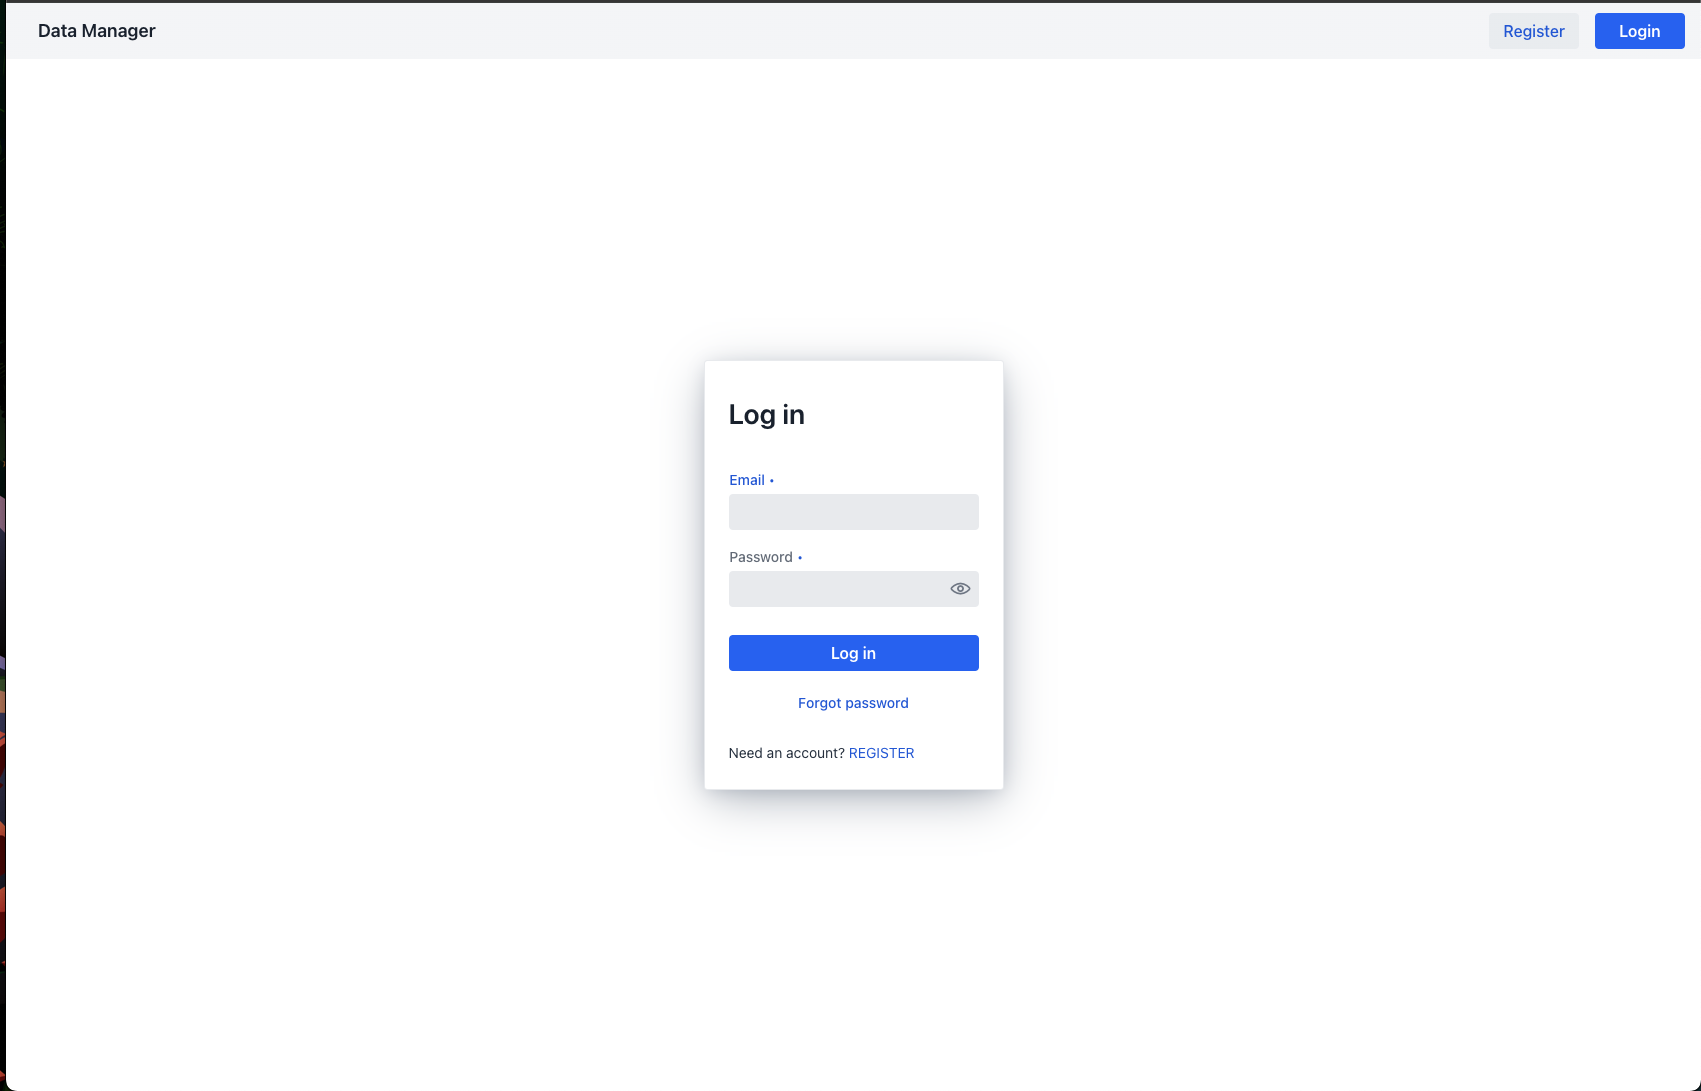
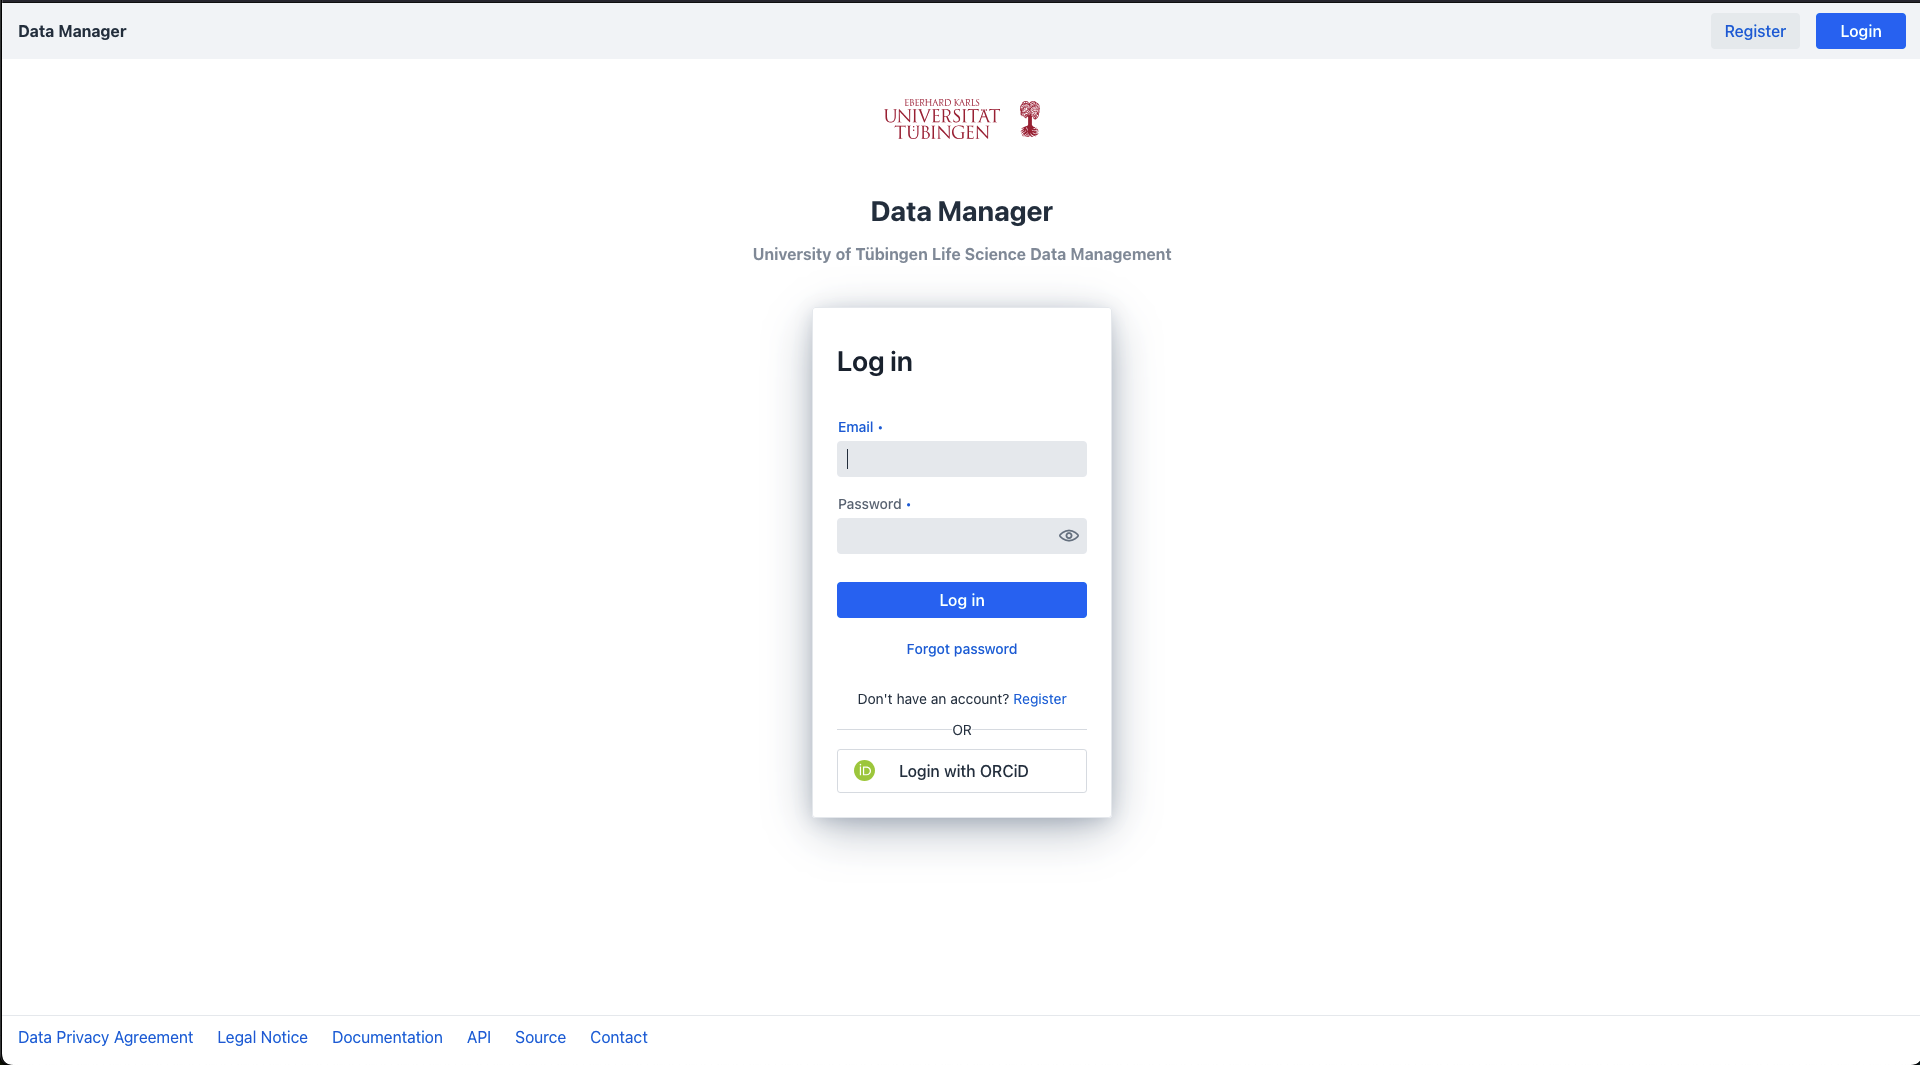
Provide Orcid Registration instructions and update screenshots for registration

diff --git a/docs/user/user_registration.md b/docs/user/user_registration.md
@@ -1,16 +1,52 @@
 # User Registration
 
 Before you can begin to manage your projects and access your data within the data-manager, 
-you need to create an account for the platform. For this you need to perform the following steps.
+you need to create an account for the platform. We currently support 2 modes of registration:
 
-1. [Register an account within the data manager](#register-account)
-2. [Validate the created account via the validation link you received in your email](#validate-the-registered-account)
-3. [Login into the data manager platform](#login-to-the-data-manager)
+1. [Register an account via orcid](#register-an-account-via-orcid)
+2. [Register an account via email](#register-an-account-via-email)
 
-## Register Account
+## Register an account via orcid
 
-From the login page you can navigate to the registration view via the "registration" button on the top right 
-or the registration link on the bottom of the login
+We recommend to register to the data manager via your existing [orcid](https://orcid.org) account.
+
+To do so press on the "login with ORCiD" registration card on the bottom of the login page. 
+
+![login_page_registration](images/user_registration/login_page.png)
+
+This will redirect you to the orcid login page 
+
+![orcid_login](images/user_registration/orcid/orcid_login.png)
+
+Login to your orcid account and grant the data manager application to access your publicly available orcid by pressing the "authorize access" button. 
+
+![orcid_registration_authorize_access.png](images/user_registration/orcid/orcid_registration_authorize_access.png).
+
+Should you not have an orcid account press the "register_now" link 
+within the orcid login and follow the outlined steps to register a new orcid account.
+
+If done correctly you will be redirected to the data manager application to finalize your account registration by providing us with additional user information.
+![orcid_registration_data_manager_registration.png](images/user_registration/orcid/orcid_registration_data_manager_registration.png)
+
+This additional information consists of
+
+1. Your full name consisting of your first name and surname
+2. A valid email address of choice which will be associated with your data manager account
+3. A unique username which identifies you within the data manager platform
+
+!!! info "Username"
+This username is visible to other users within the platform
+
+Press the register button to register an account within the data manager application and navigate to the login page.
+Finally, press on the "login with ORCiD" registration card on the bottom of the login page to login into the data manager application via your orcid credentials. 
+![registration page](images/user_registration/registration_page.png)
+
+### Create a new orcid
+
+## Register an account via email
+
+If you don't want to link your orcid with the data manager application, 
+you can also register an account with your email address by pressing the register link on the login page or via the "registration" button on the top right.
 
 ![login_page_registration](images/user_registration/login_page.png)
 
@@ -30,12 +66,14 @@ Please provide the required information which consists of:
 4. A secure password consisting of at least 12 characters
 
 Once all the information has been provided correctly, 
-press the register button on the bottom to create your account. 
+press the "register" button on the bottom to create your account. 
 
-## Validate the registered account
+### Validate the registered account
 
 Before you can log into the data manager platform with your newly created account, 
-you need to validate the provided email address.
+you need to verify the provided email address.
+![email_verification](images/user_registration/email_verification.png)
+
 After creating the account, you will receive an email containing a validation link.
 !!! note "Spam folder"
     Please check your spam folder if you didn't receive an email
@@ -44,8 +82,8 @@ Click the link within the email, which
 will automatically validate the email address and lead you to the registration page
 ![login page](images/user_registration/login_page_validated.png)
 
-## Login to the data manager
+### Login to the data manager
 
-After your account has been validated, you are now able to log in to the data manager. 
+After your account has been verified, you are now able to log in to the data manager. 
 This can be done on the dedicated login page via the provided email address and password of the newly created account.
 ![login page](images/user_registration/login_page_filled.png)

diff --git a/docs/rawdata/raw_data_download_run_download.md b/docs/rawdata/raw_data_download_run_download.md
@@ -4,7 +4,7 @@ We show how to run the download via the two popular command line clients [cURL](
 Of course, you can use any other software that supports HTTP.
 
 Keep in mind that you need to be [granted access](../project/project_access.md)
-by the project owner to download the associated measurement data.
+by the project owner and have a non-expired [personal access token](raw_data_download_create_pat.md) to download the associated measurement data.
 
 The commands contain two placeholders, where you have to provide your custom input:
 
@@ -14,7 +14,7 @@ The commands contain two placeholders, where you have to provide your custom inp
 === "curl"
     
     ``` bash
-    curl -OJ -H "Authorization: Bearer <ACCESS_TOKEN>" <MEASUREMENT_URL>
+    curl -OJ -H —parallel —fail "Authorization: Bearer <ACCESS_TOKEN>" <MEASUREMENT_URL>
     ```
 
 
@@ -30,13 +30,15 @@ To download multiple measurements using one command, you can provide a file cont
 <MEASUREMENT_URL_1>
 <MEASUREMENT_URL_2>
 ```
+!!! warning "File format"
+    The provided file should be formatted in the UTF-8 format to ensure character validity.
 
 The corresponding commands need to be adapted accordingly.
 
 === "curl"
     
     ``` bash
-    curl --remote-name-all -OJ -H "Authorization: Bearer <ACCESS_TOKEN>" $(cat <file-with-urls>)
+    curl --remote-name-all -OJ -H —parallel —fail "Authorization: Bearer <ACCESS_TOKEN>" $(cat <file-with-urls>)
     ```
 
 
